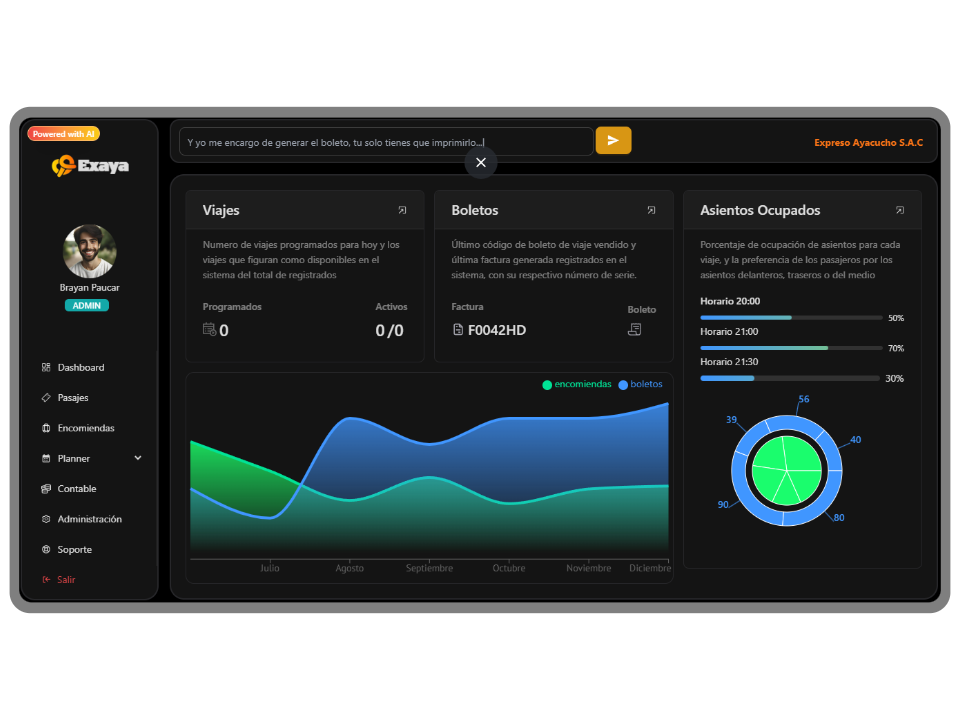
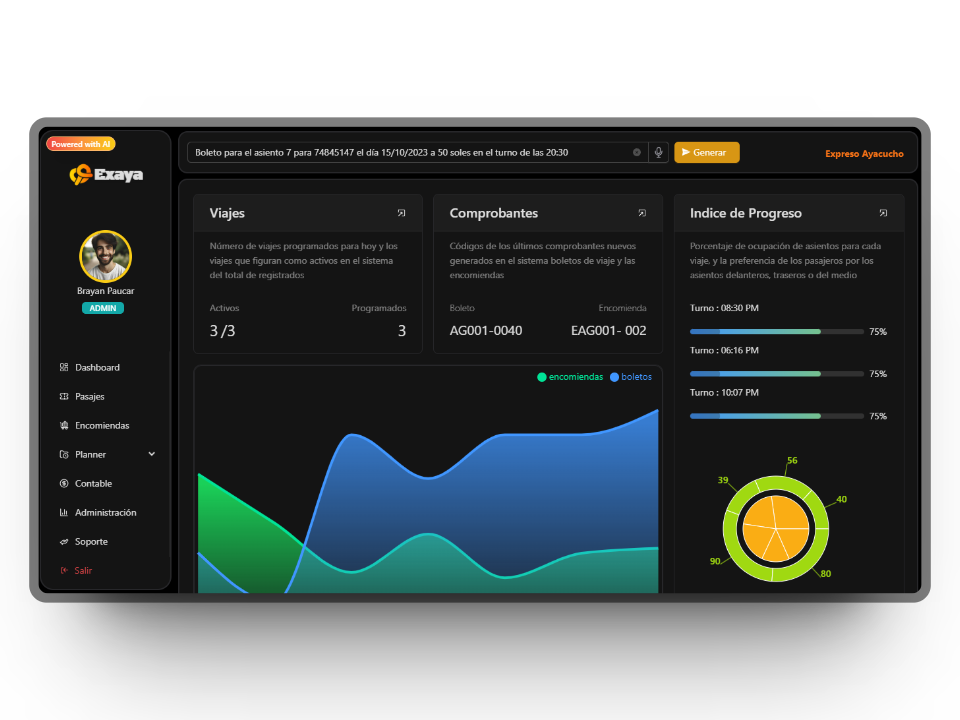
Refactor UI components, update styles, and fix minor issues in multiple files

diff --git a/src/components/ui/panel-de-control/progresses-card.tsx b/src/components/ui/panel-de-control/progresses-card.tsx
@@ -67,7 +67,13 @@ export const ProgressesCard = ({ viajesDiarios, isLoading }: Props) => {
 
             return (
               <Space key={viajeDiario.id} direction="vertical" size={12}>
-                <Text>Horario {viajeDiario.salida.toLocaleTimeString()}</Text>
+                <Text>
+                  Turno :{" "}
+                  {viajeDiario.salida.toLocaleTimeString([], {
+                    hour: "2-digit",
+                    minute: "2-digit",
+                  })}
+                </Text>
                 {isLoading ? (
                   <Skeleton.Button
                     active
@@ -79,6 +85,9 @@ export const ProgressesCard = ({ viajesDiarios, isLoading }: Props) => {
                   />
                 ) : (
                   <Progress
+                    style={{
+                      width: 300,
+                    }}
                     status={status}
                     strokeColor={{
                       "0%": "#4096FF",
@@ -92,16 +101,16 @@ export const ProgressesCard = ({ viajesDiarios, isLoading }: Props) => {
           }
         )}
       </Space>
-      {/* {viajesDiarios?.length === 0 ? (
+      {viajesDiarios?.length === 0 ? (
         <Alert
           className="mt-8"
           message="Para mostrar el gráfico de progreso, primero debes registrar un viaje"
           type="info"
           showIcon
         />
-      ) : ( */}
-      <ControlPanePieChart viajesDiarios={viajesDiarios} />
-      {/* )} */}
+      ) : (
+        <ControlPanePieChart viajesDiarios={viajesDiarios} />
+      )}
     </Card>
   );
 };

diff --git a/src/components/exaya/layout.tsx b/src/components/exaya/layout.tsx
@@ -6,7 +6,6 @@ import { Button, Layout, Menu, theme } from "antd";
 import { signOut, useSession } from "next-auth/react";
 import { useRouter } from "next/navigation";
 import React, { useContext } from "react";
-import { CgLogOut } from "react-icons/cg";
 import {
   LuBaggageClaim,
   LuBarChart3,
@@ -15,6 +14,7 @@ import {
   LuHelpingHand,
   LuLayoutDashboard,
   LuTicket,
+  LuLogOut,
 } from "react-icons/lu";
 import { AIAssistantInput } from "../ui/panel-de-control/ai-assistant-input";
 const { Header, Footer, Sider, Content } = Layout;
@@ -105,7 +105,7 @@ export default function AppLayout({ children }: LayoutProps) {
                 type="text"
                 danger
                 className="rounded-b-xl rounded-t-md"
-                icon={<CgLogOut />}
+                icon={<LuLogOut className="rotate-180" />}
                 // eslint-disable-next-line @typescript-eslint/no-misused-promises
                 onClick={handleSignOut}
               />
@@ -117,7 +117,7 @@ export default function AppLayout({ children }: LayoutProps) {
                 // eslint-disable-next-line @typescript-eslint/no-misused-promises
                 onClick={handleSignOut}
               >
-                <CgLogOut />
+                <LuLogOut className="rotate-180" />
                 Salir
               </Button>
             )}

diff --git a/src/pages/login/index.tsx b/src/pages/login/index.tsx
@@ -191,7 +191,7 @@ export default function Login() {
               </button>
             </div>
           </Form>
-          <div className="flex gap-4 p-4 text-xs  text-zinc-600 dark:text-zinc-400">
+          <div className="z-10 flex gap-4 p-4 text-xs  text-zinc-600 dark:text-zinc-400">
             <p className="flex items-center gap-1 font-mono ">
               <HiOutlineUser /> <span>tomas</span>
             </p>
@@ -200,7 +200,7 @@ export default function Login() {
             </p>
           </div>
           <div className="fixed bottom-0 right-0 z-10 p-2  text-xs">
-            <h1 className="font-mono">v2.4.0</h1>
+            <h1 className="font-mono dark:text-white">v2.4.0</h1>
           </div>
         </AOSWrapper>
       </div>

diff --git a/src/components/landing/container-scroll-animation.tsx b/src/components/landing/container-scroll-animation.tsx
@@ -43,14 +43,14 @@ export const ContainerScroll = () => {
         <img
           src={ExayaHeroLight.src}
           alt="banner"
-          className="mx-auto drop-shadow-2xl "
+          className="mx-auto"
           data-aos="fade-up"
         />
         <div className="dark:absolute dark:inset-0">
           <img
             src={ExayaHeroDark.src}
             alt="banner"
-            className="mx-auto hidden drop-shadow-xl dark:block "
+            className="mx-auto hidden  dark:block "
             data-aos="fade-up"
           />
         </div>

diff --git a/src/components/landing/landing-layout.tsx b/src/components/landing/landing-layout.tsx
@@ -46,7 +46,7 @@ export default function LandingLayout({
       <Alert
         message="Recomendamos usar la versión de escritorio"
         type="warning"
-        className="fixed bottom-32 left-60 z-50 w-72  -rotate-90 text-center text-xs dark:bg-zinc-900  dark:text-white lg:hidden"
+        className="fixed bottom-32 left-56 z-50 w-72  -rotate-90 text-center text-xs dark:bg-zinc-900  dark:text-white lg:hidden"
         showIcon
       />
 

diff --git a/src/components/ui/programacion/viajes-form.tsx b/src/components/ui/programacion/viajes-form.tsx
@@ -179,6 +179,8 @@ export function ViajesForm({
               <DatePicker
                 style={{ width: 250 }}
                 showTime
+                use12Hours
+                minuteStep={15}
                 showNow={false}
                 placeholder="Fecha de Salida"
                 format="YYYY-MM-DD HH:mm"
